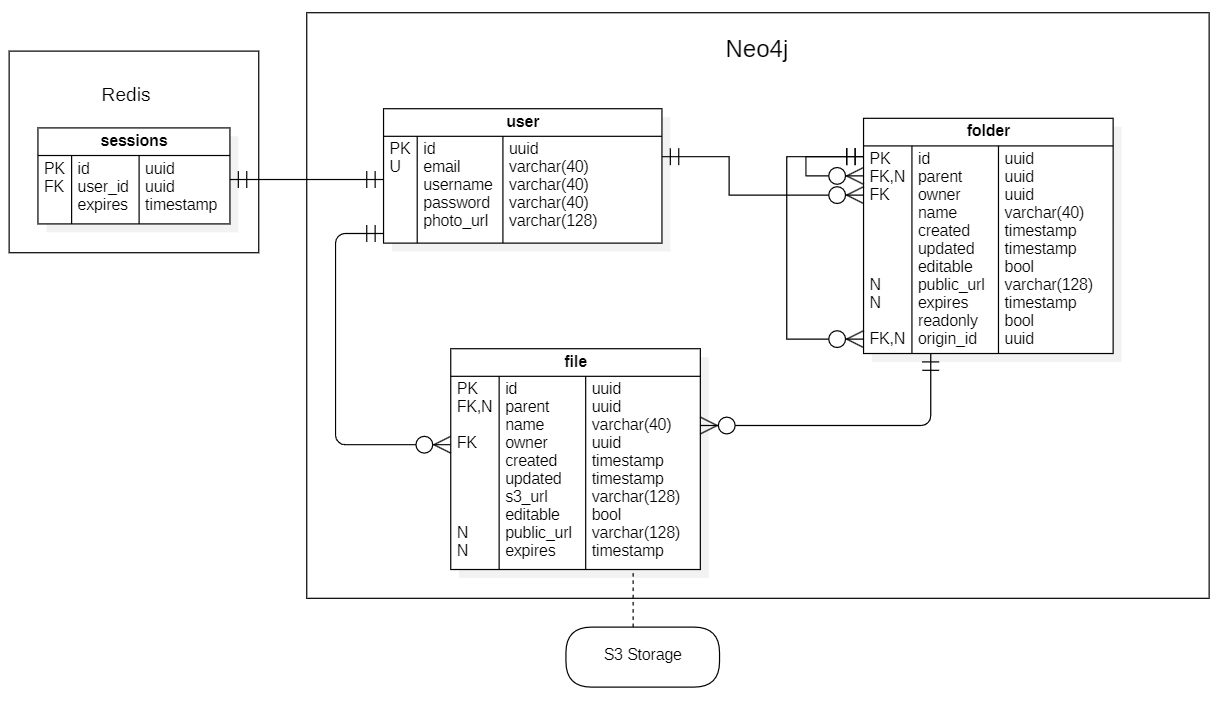
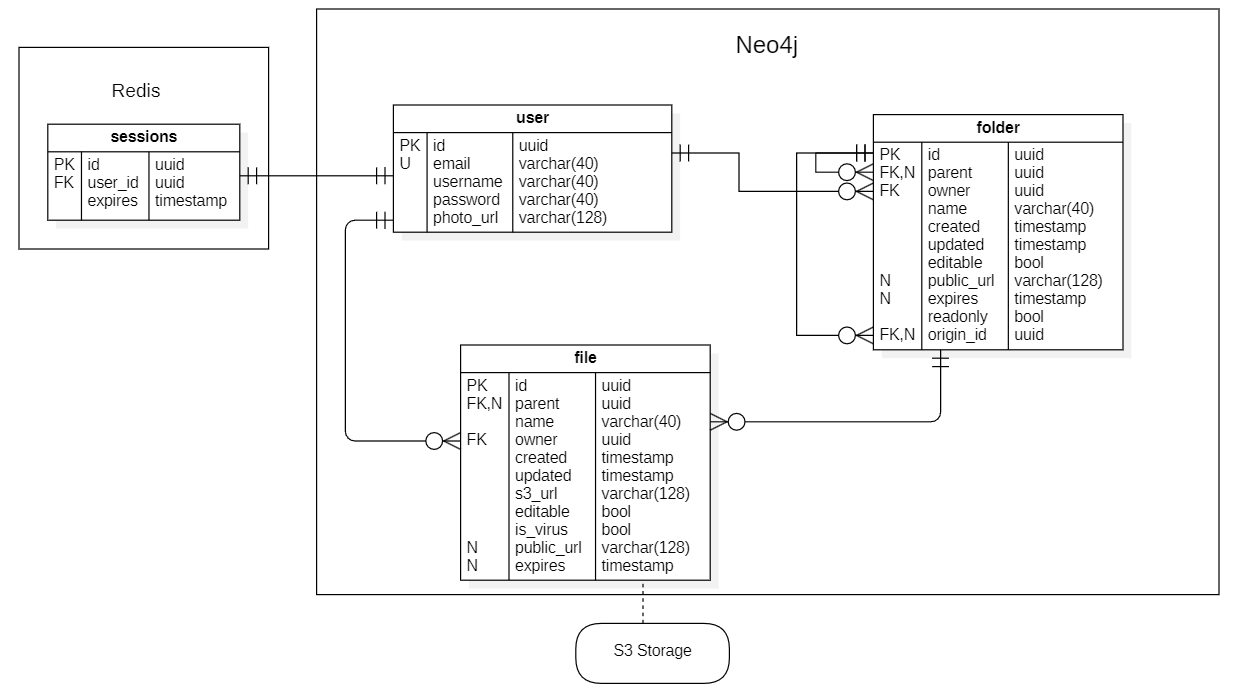
Расписал принцип шардирования + алгоритм работы антивируса

Changed region(s): [[0.0, 0.0, 0.9935, 0.9986], [0.7451, 0.5749, 0.7761, 0.6052]]

diff --git a/README.md b/README.md
@@ -468,7 +468,11 @@ P.S. Поле origin_id хранит id оригинальной папки fold
 
 Для шардирования выберем таблицы file и folder, так как на них приходится основная нагрузка. 
 
-Шардировать будем по user_id
+Шардировать будем по юзерам
+
+Возьмем размер максимального тарифа (1ТБ) в качества размера одного шардра
+
+В шардах будем хранить разное количество пользователей, в зависимости от их тарифов (одного пользователя с максимальным тарифом, 10 пользователей с тарифом на 100Гб либо 124 польователя с тарифом 8гб)
 
 ### Репликация
 
@@ -493,31 +497,19 @@ P.S. Поле origin_id хранит id оригинальной папки fold
 
 ## 7. Алгоритмы <a name="7_part"></a>
 
-### Проверка загружаемых файлов на вирусы
+### Проверка файлов на вирусы
 
 1. Загрузка файла
    * Получение файла
-     * Пользователь загружает файл через загрузжик на сайте.
-   * Проверка формата
-     * Алгоритм проверяет, соответствует ли загруженный файл поддерживаемым форматам
+     * Пользователь загружает файл => файл разбивается на чанки и грузится в S3
 
 2. Анализ содержимого
-   * Детектирование вредоносного и запрещенного контента
-     * Использование алгоритмов машинного обучения для обнаружения вирусов
-     * В случае, если что-то обнаружено, отправка пользователю отказ в загрузке
+   * Антивирусная программа развернута на сервере и в фоновом режиме проверяет файлы
+     * Раз в определенное время на антивирус отправляется запрос, в котором передается путь до файла в s3, а также его id
+     * Антивирус получает файл из s3, сканирует его и в случае подозрения на вредоносный контент помечает файл как опасный
 
-3. Сохранение
-   * Сохранение видео
-     * Загрузка файла в облачное хранилище S3
-     * Сохранение в базу данных PostgreSQL в таблицу file
-
-
-// Как устроена проверка на вирусы Касперским (решение на стороне облака или сторонее)
-// Что за компания, что предоставляет, проверка в рантайме или как?
-
-// Популярные паблики алгоритм (шард будет перегреваться)
-
-// Если будем грузить большой файл (по частям или как)
+3. Отображение предупреждений о вредоносных файлах
+   * В списке файлов пользователя помеченные антивирусом файлы будут отображаться как опасные (значок + предупреждение при открытии)
 
 ---
 
